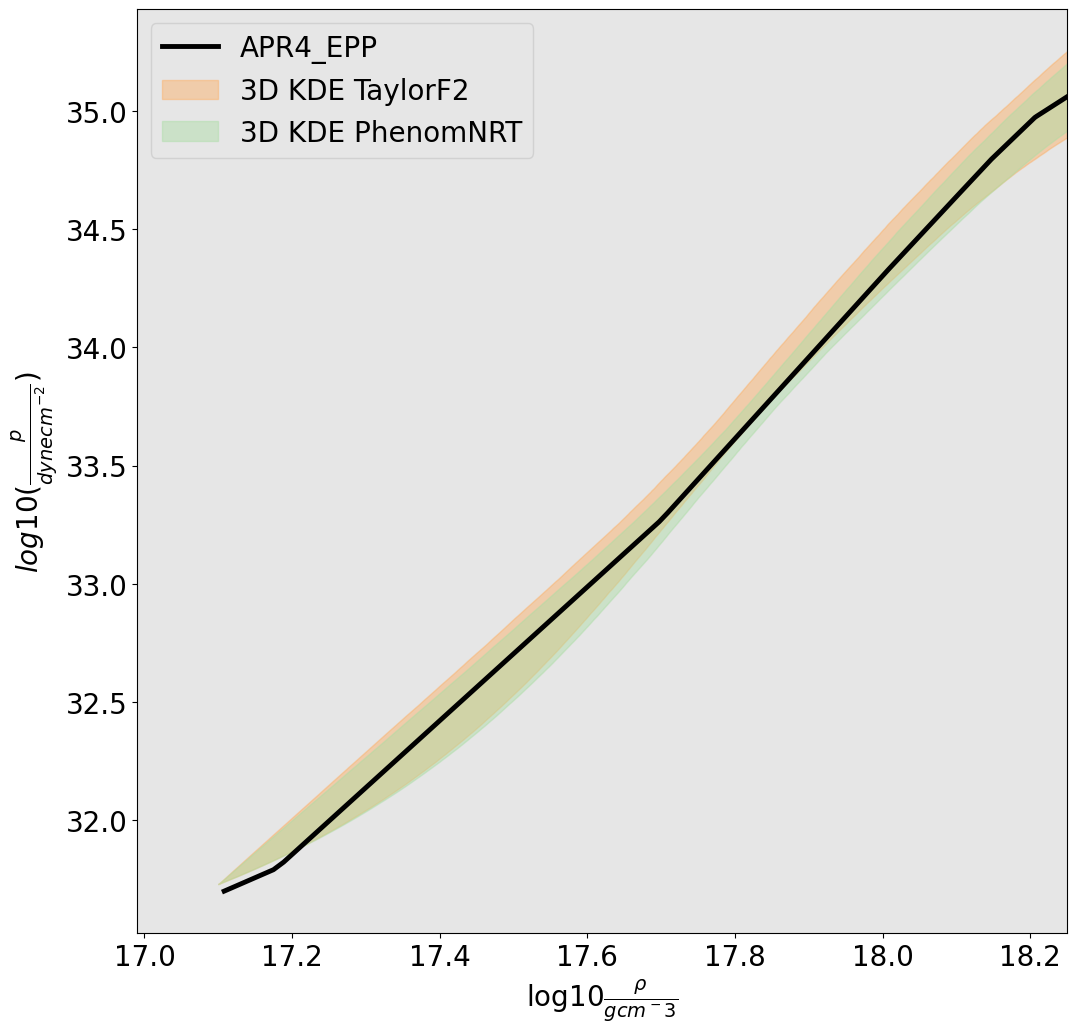
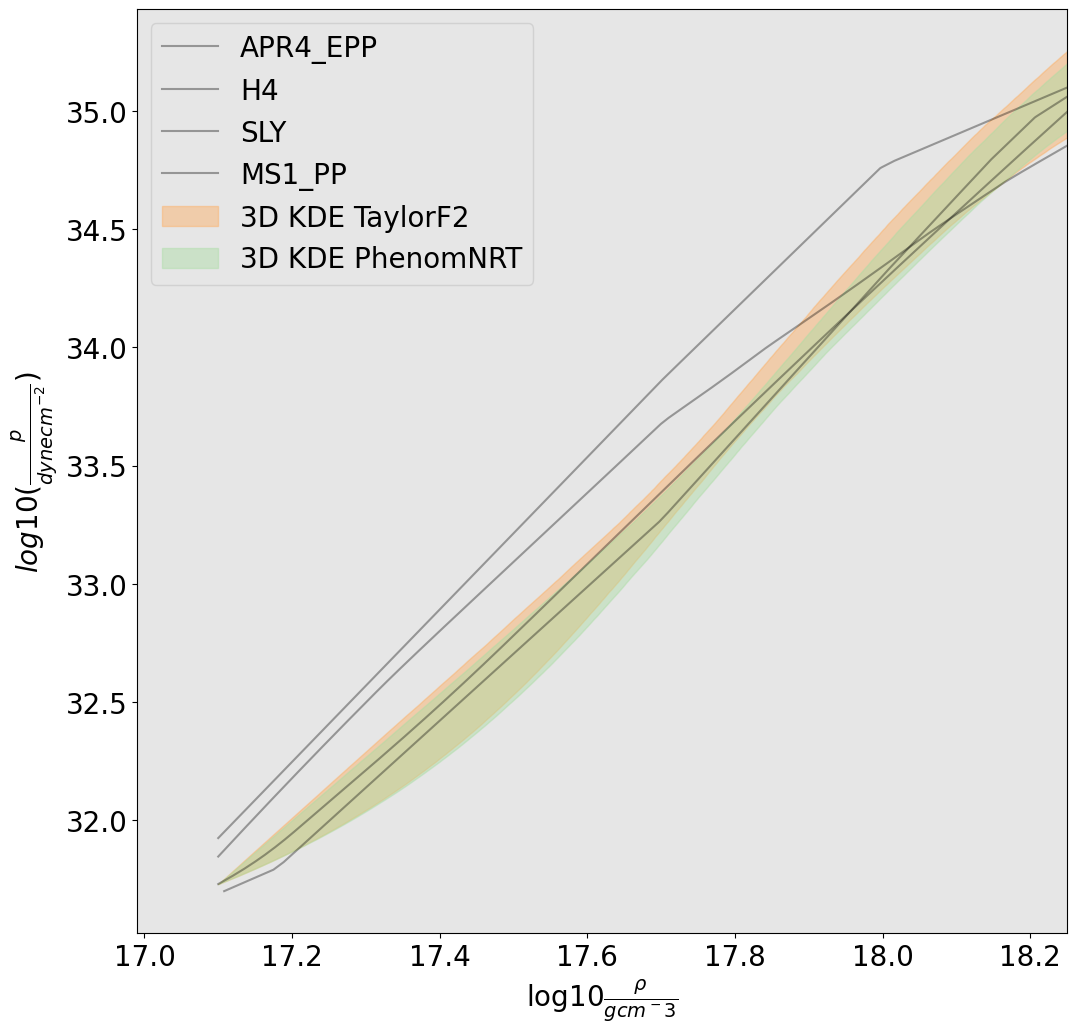
NSF report plots draft 2.

diff --git a/year3/lastStretch/simulConstraint.py b/year3/lastStretch/simulConstraint.py
@@ -105,11 +105,14 @@ def plotConstraint():
     # Adopted from Anarya's GWXtreme 3d kde prod branch's plotting logic.
 
     #labels = ["2D-KDE-TaylorF2", "3D-KDE-TaylorF2", "3D-KDE-PhenomNRT"]
-    labels = ["3D-KDE-TaylorF2", "3D-KDE-PhenomNRT"]
+    labels = ["2D-KDE-TaylorF2", "3D-KDE-TaylorF2"]
+    #labels = ["3D-KDE-TaylorF2", "3D-KDE-PhenomNRT"]
     #Labels = ["2D KDE TaylorF2", "3D KDE TaylorF2", "3D KDE PhenomNRT"]
-    Labels = ["3D KDE TaylorF2", "3D KDE PhenomNRT"]
+    Labels = ["2D KDE TaylorF2", "3D KDE TaylorF2"]
+    #Labels = ["3D KDE TaylorF2", "3D KDE PhenomNRT"]
     #Colors = ["#d7191c","#fdae61","#abdda4"]
-    Colors = ["#fdae61","#abdda4"]
+    Colors = ["#d7191c","#fdae61"]
+    #Colors = ["#fdae61","#abdda4"]
 
     plt.figure(figsize=(12,12))
     plt.rc('font', size=20)
@@ -128,14 +131,15 @@ def plotConstraint():
         #plt.plot(upper_bound, rho, color=Color)
         plt.fill_between(np.log10(rho), lower_bound, upper_bound, color=Color, alpha=0.45, label=Label, zorder=1.)
 
-    logp=eos_p_of_rho(rho,lalsimulation.SimNeutronStarEOSByName("APR4_EPP"))
-    plt.plot(np.log10(rho),logp,color='black', linewidth=3.5, label="APR4_EPP")
-
+    EoSs = ["APR4_EPP","H4","SLY","MS1_PP"]
+    for EoS in EoSs:
+        logp=eos_p_of_rho(rho,lalsimulation.SimNeutronStarEOSByName(EoS))
+        plt.plot(np.log10(rho),logp,color='black', linewidth=1.5, label=EoS, alpha=0.35)
 
     plt.xlim([16.99, 18.25])
     plt.xlabel(r'$\log10{\frac{\rho}{g cm^-3}}$',fontsize=20)
     plt.ylabel(r'$log10(\frac{p}{dyne cm^{-2}})$',fontsize=20)
     plt.legend()
     #plt.savefig("plots/constraints/16simulations_constraint.png", bbox_inches='tight')
-    plt.savefig("plots/NSFreport/16simulations_constraint2.png", bbox_inches='tight')
+    plt.savefig("plots/NSFreport/16simulations_constraint.png", bbox_inches='tight')
 
